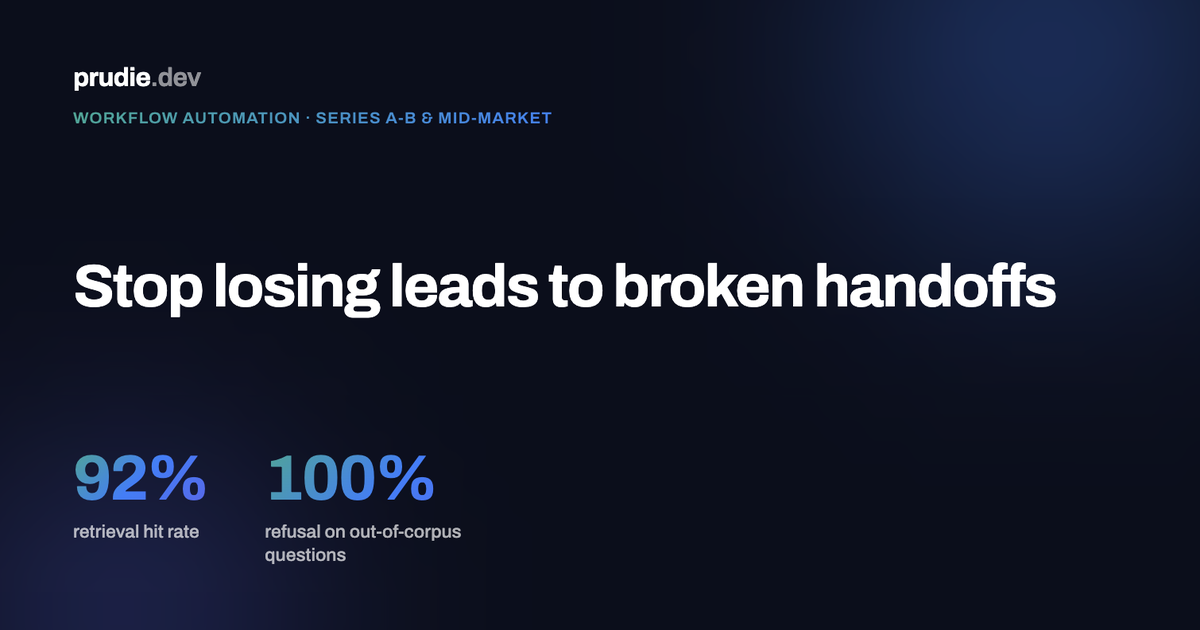
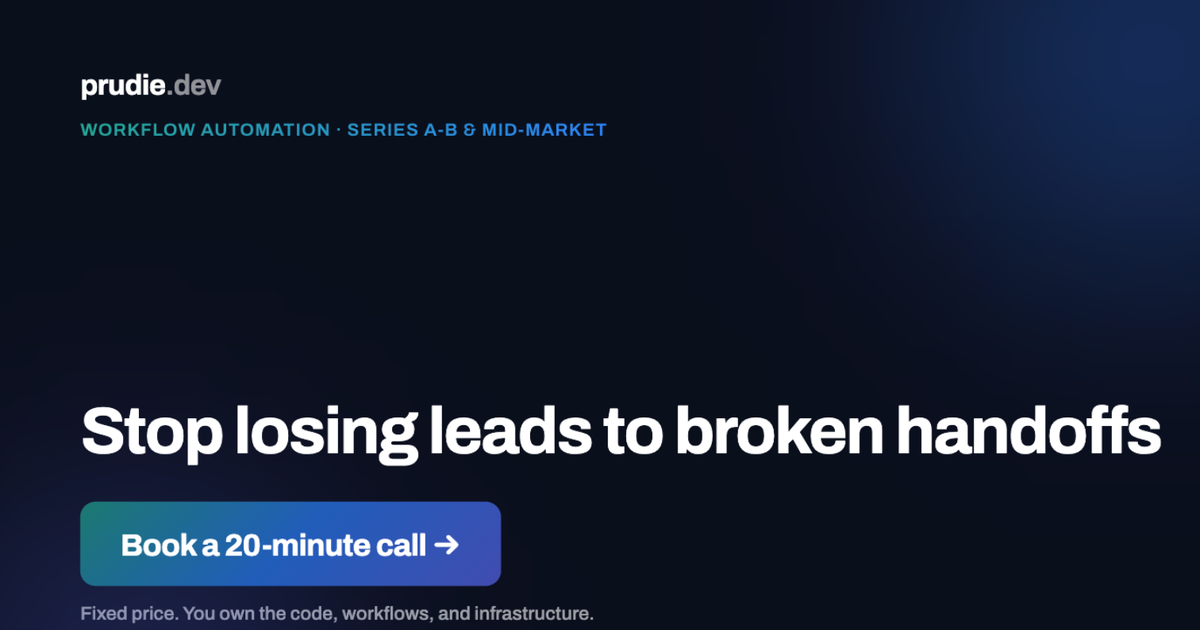
De-clutter homepage hero: drop citation link and reused case-study stats
The hero was carrying two things that made it read as a footnoted research
page instead of a sales page: an inline link citing the 21x study, and a
proof strip repeating the knowledge-retrieval case study's own 92%/100%
numbers as if they were a general homepage-level stat.

- Hero lede now reads as a plain claim with a superscript asterisk instead
  of an inline citation link
- Added the citation as small, muted fine print above the footer, off the
  main reading path
- Removed the 92%/100% proof strip from the hero entirely; those numbers
  belong to one case study, not the general pitch
- Redesigned the homepage OG image to match: headline + a real CTA button
  ("Book a 20-minute call") instead of borrowed case-study stats

Claude-Session: https://claude.ai/code/session_01Akkh4zQSx1wjL3YUhhnEJE

diff --git a/index.html b/index.html
@@ -105,12 +105,6 @@
   .hero-actions .btn-quiet{color:rgba(255,255,255,.85);border-bottom-color:rgba(255,255,255,.4)}
   .hero-actions .btn-quiet:hover{color:#fff;border-color:#fff}
   .reassure{font-family:Archivo;font-size:0.8125rem;color:rgba(255,255,255,.55);margin-top:1rem}
-  .hero-proof{list-style:none;display:flex;flex-wrap:wrap;align-items:center;gap:.6rem 1rem;margin:1.1rem 0 0;padding:0}
-  .hero-proof a{font-family:Archivo;font-weight:600;font-size:.8125rem;color:#fff;text-decoration:none;background:rgba(255,255,255,.08);border:1px solid rgba(255,255,255,.18);border-radius:999px;padding:.4rem .85rem;display:inline-flex;align-items:center;gap:.35rem;transition:background .15s ease,border-color .15s ease}
-  .hero-proof a:hover{background:rgba(255,255,255,.14);border-color:rgba(255,255,255,.32)}
-  .hero-proof a b{font-weight:700;background-image:var(--gradient);background-clip:text;-webkit-background-clip:text;color:transparent}
-  .hero-proof-note{width:100%;font-family:Archivo;font-size:.75rem;color:rgba(255,255,255,.5)}
-  @media (max-width:560px){.hero-proof-note{width:auto}}
 
   .btn{font-family:Archivo;font-weight:500;font-size:0.9375rem;background:var(--ink);color:var(--paper);padding:0.8rem 1.4rem;border-radius:8px;text-decoration:none;display:inline-block;transition:filter .15s ease,transform .15s ease,box-shadow .15s ease}
   .btn:hover{filter:brightness(1.3);transform:translateY(-1px);box-shadow:var(--shadow-sm)}
@@ -370,6 +364,9 @@
   .book .reassure{margin-top:1rem;color:rgba(255,255,255,.55)}
   .book .reassure a{color:#fff;border-bottom:1px solid rgba(255,255,255,.4)}
 
+  .fine-print{padding-top:2rem;font-family:Archivo;font-size:0.75rem;line-height:1.5;color:var(--ink-soft);opacity:.75;max-width:var(--measure)}
+  .fine-print a{color:var(--ink-soft)}
+
   footer{border-top:1px solid var(--rule);padding-block:2rem 3rem;font-family:Archivo;font-size:0.8125rem;color:var(--ink-soft);display:flex;flex-wrap:wrap;gap:.75rem 2rem;justify-content:space-between}
   footer a{color:var(--ink-soft)}
 </style>
@@ -397,17 +394,12 @@
     <div class="wrap hero-grid">
       <div class="hero-copy">
         <h1>Stop losing leads to broken handoffs.</h1>
-        <p class="lede">A 30-minute response delay cuts your odds of qualifying a lead by 21x, according to a <a href="/case-studies/lead-routing/#result">2007 study of 15,000+ leads</a>. This routes every lead in under 5 seconds, automatically.</p>
+        <p class="lede">A 30-minute response delay cuts your odds of qualifying a lead by 21x.<sup>*</sup> This routes every lead in under 5 seconds, automatically.</p>
         <div class="hero-actions">
           <a class="btn" href="#book">Book a 20-minute call</a>
           <a class="btn-quiet" href="#offers">See pricing</a>
         </div>
         <p class="reassure">Fixed price agreed before work starts. You own the code, workflows, and infrastructure.</p>
-        <ul class="hero-proof" aria-label="Measured results from a live case study">
-          <li><a href="/case-studies/knowledge-retrieval/"><b>92%</b> retrieval hit rate</a></li>
-          <li><a href="/case-studies/knowledge-retrieval/"><b>100%</b> refusal on out-of-corpus questions</a></li>
-          <li class="hero-proof-note">Measured on a 50-question eval harness run against the live stack.</li>
-        </ul>
       </div>
 
       <aside class="pipeline-card" aria-labelledby="pipeline-heading">
@@ -876,6 +868,8 @@
     </div>
   </section>
 </main>
+
+<p class="fine-print wrap">* 21x qualification-odds figure from a 2007 Lead Response Management study of InsideSales.com data, 15,000+ leads across six companies, analyzed by MIT Sloan researcher James Oldroyd. <a href="https://www.leadresponsemanagement.org/lrm_study/">Source</a>.</p>
 
 <footer class="wrap">
   <div>Prudie.dev, Grace Ene. Los Angeles, California.</div>
